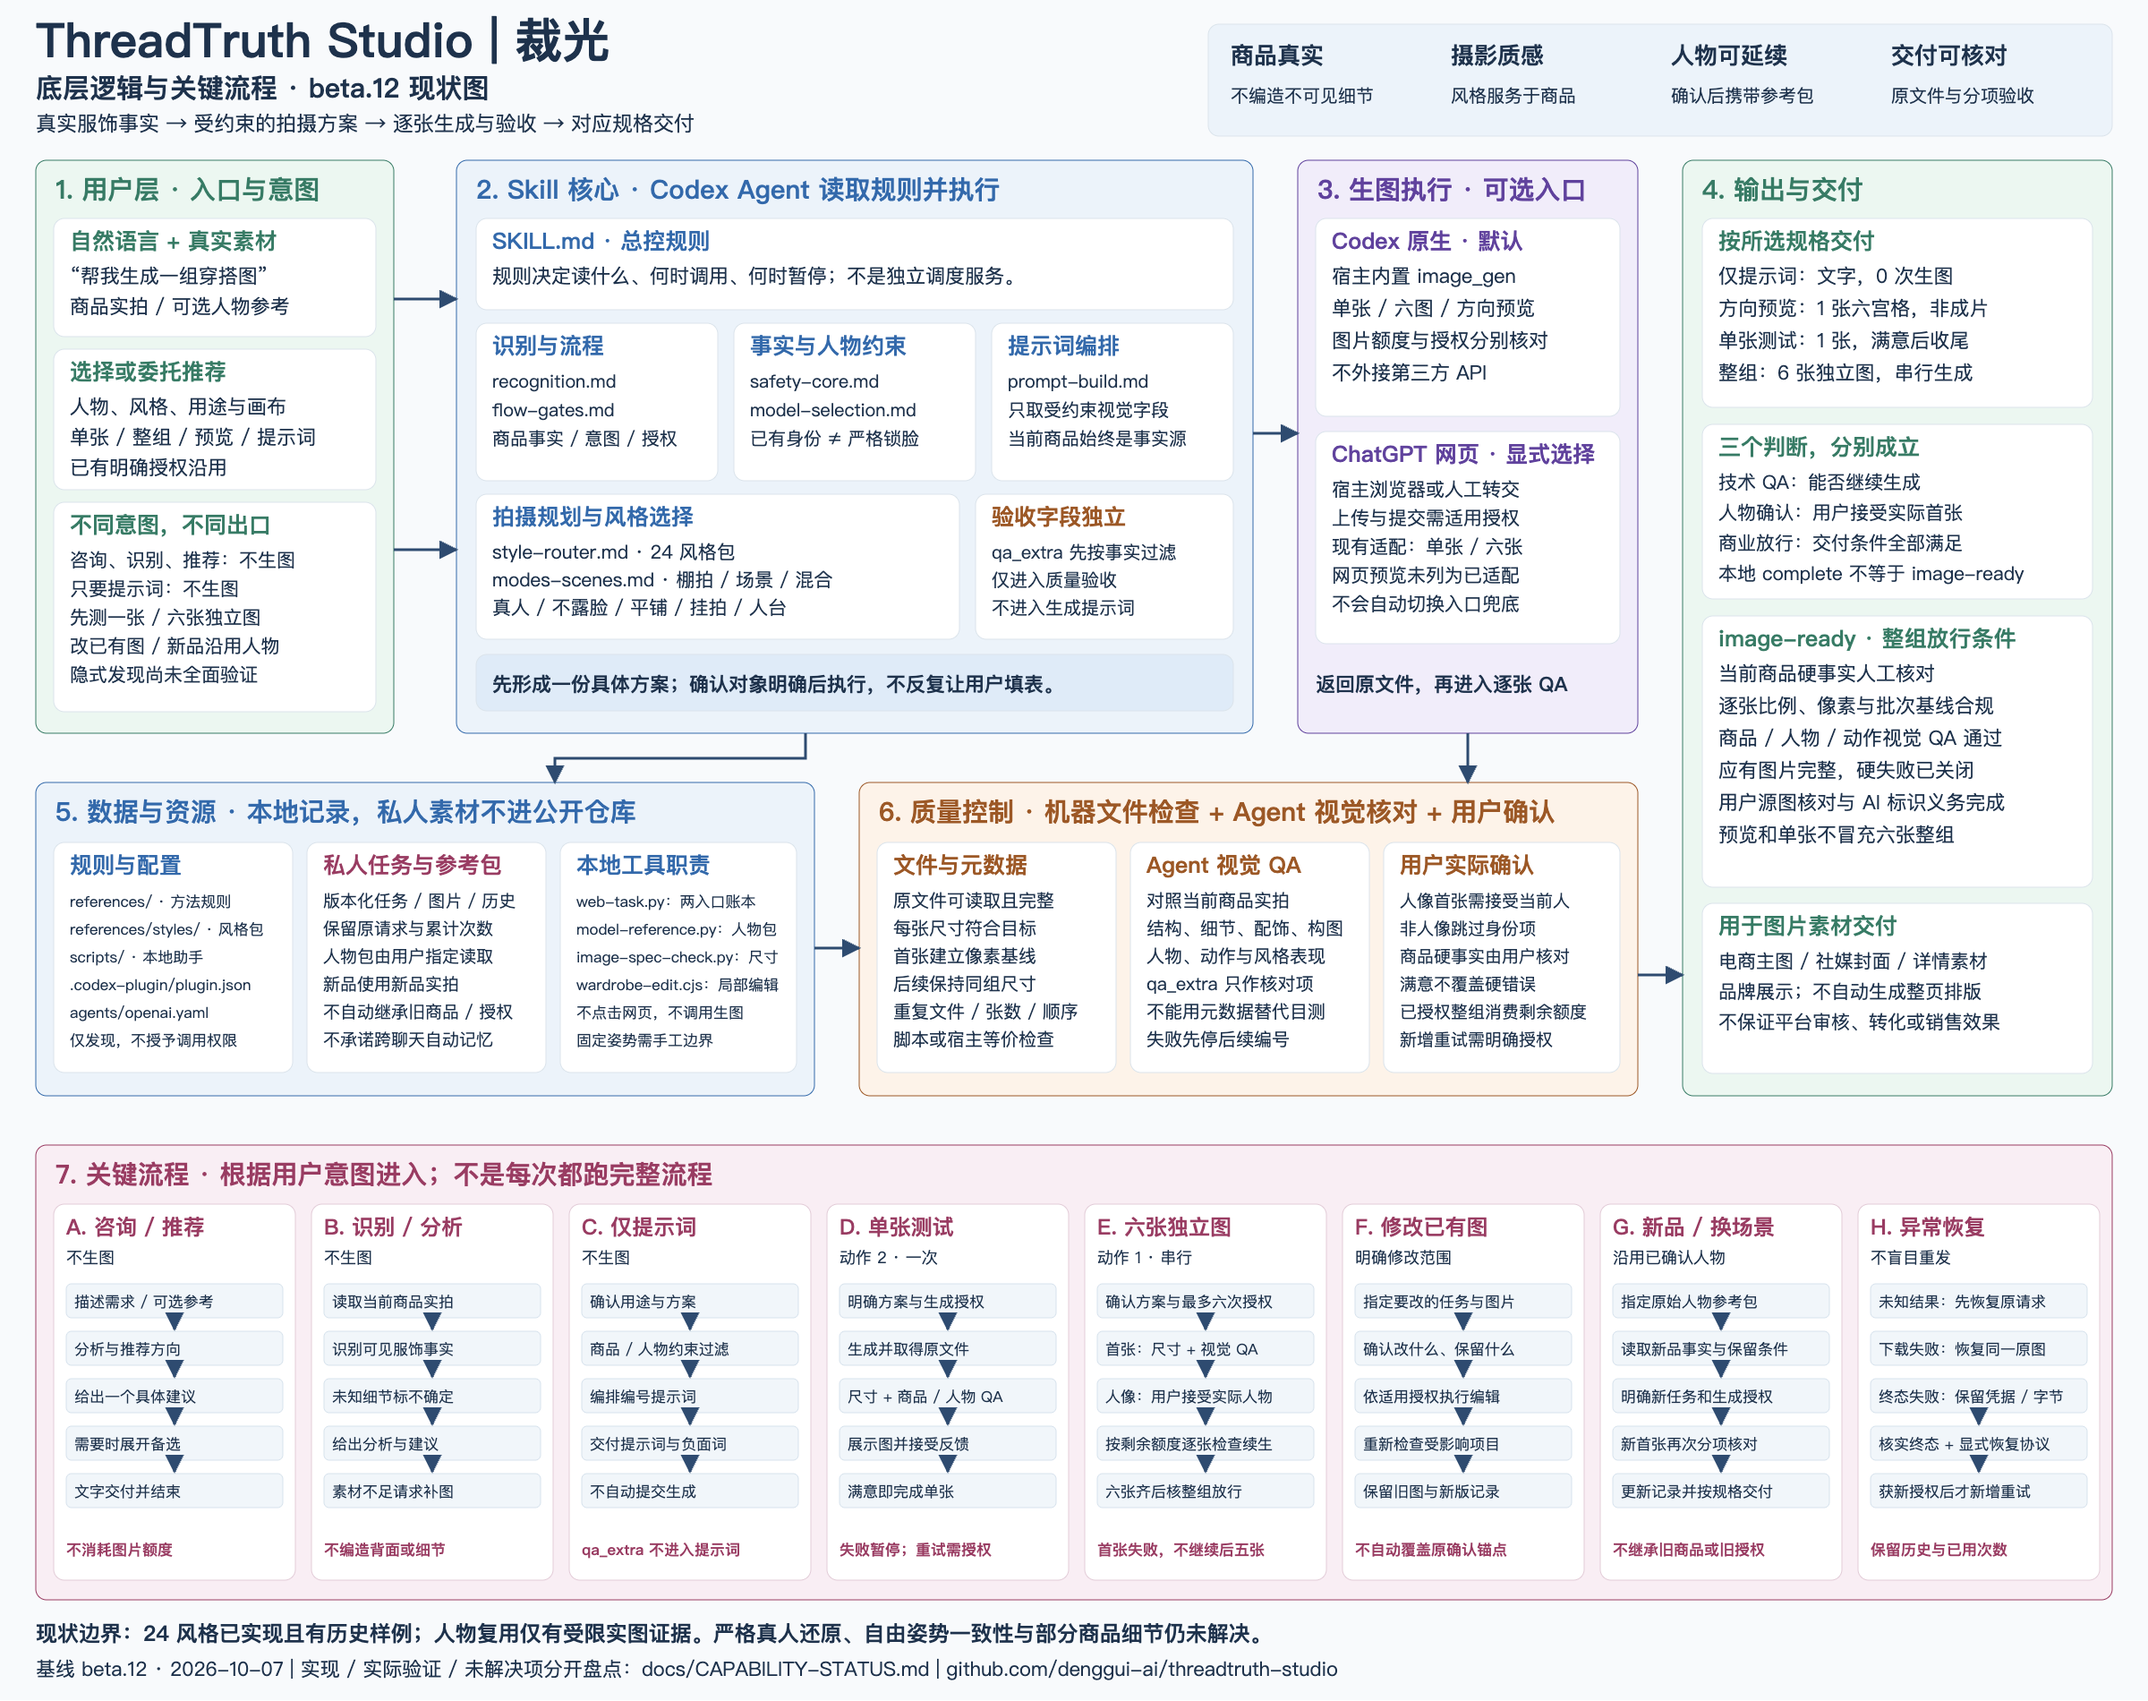
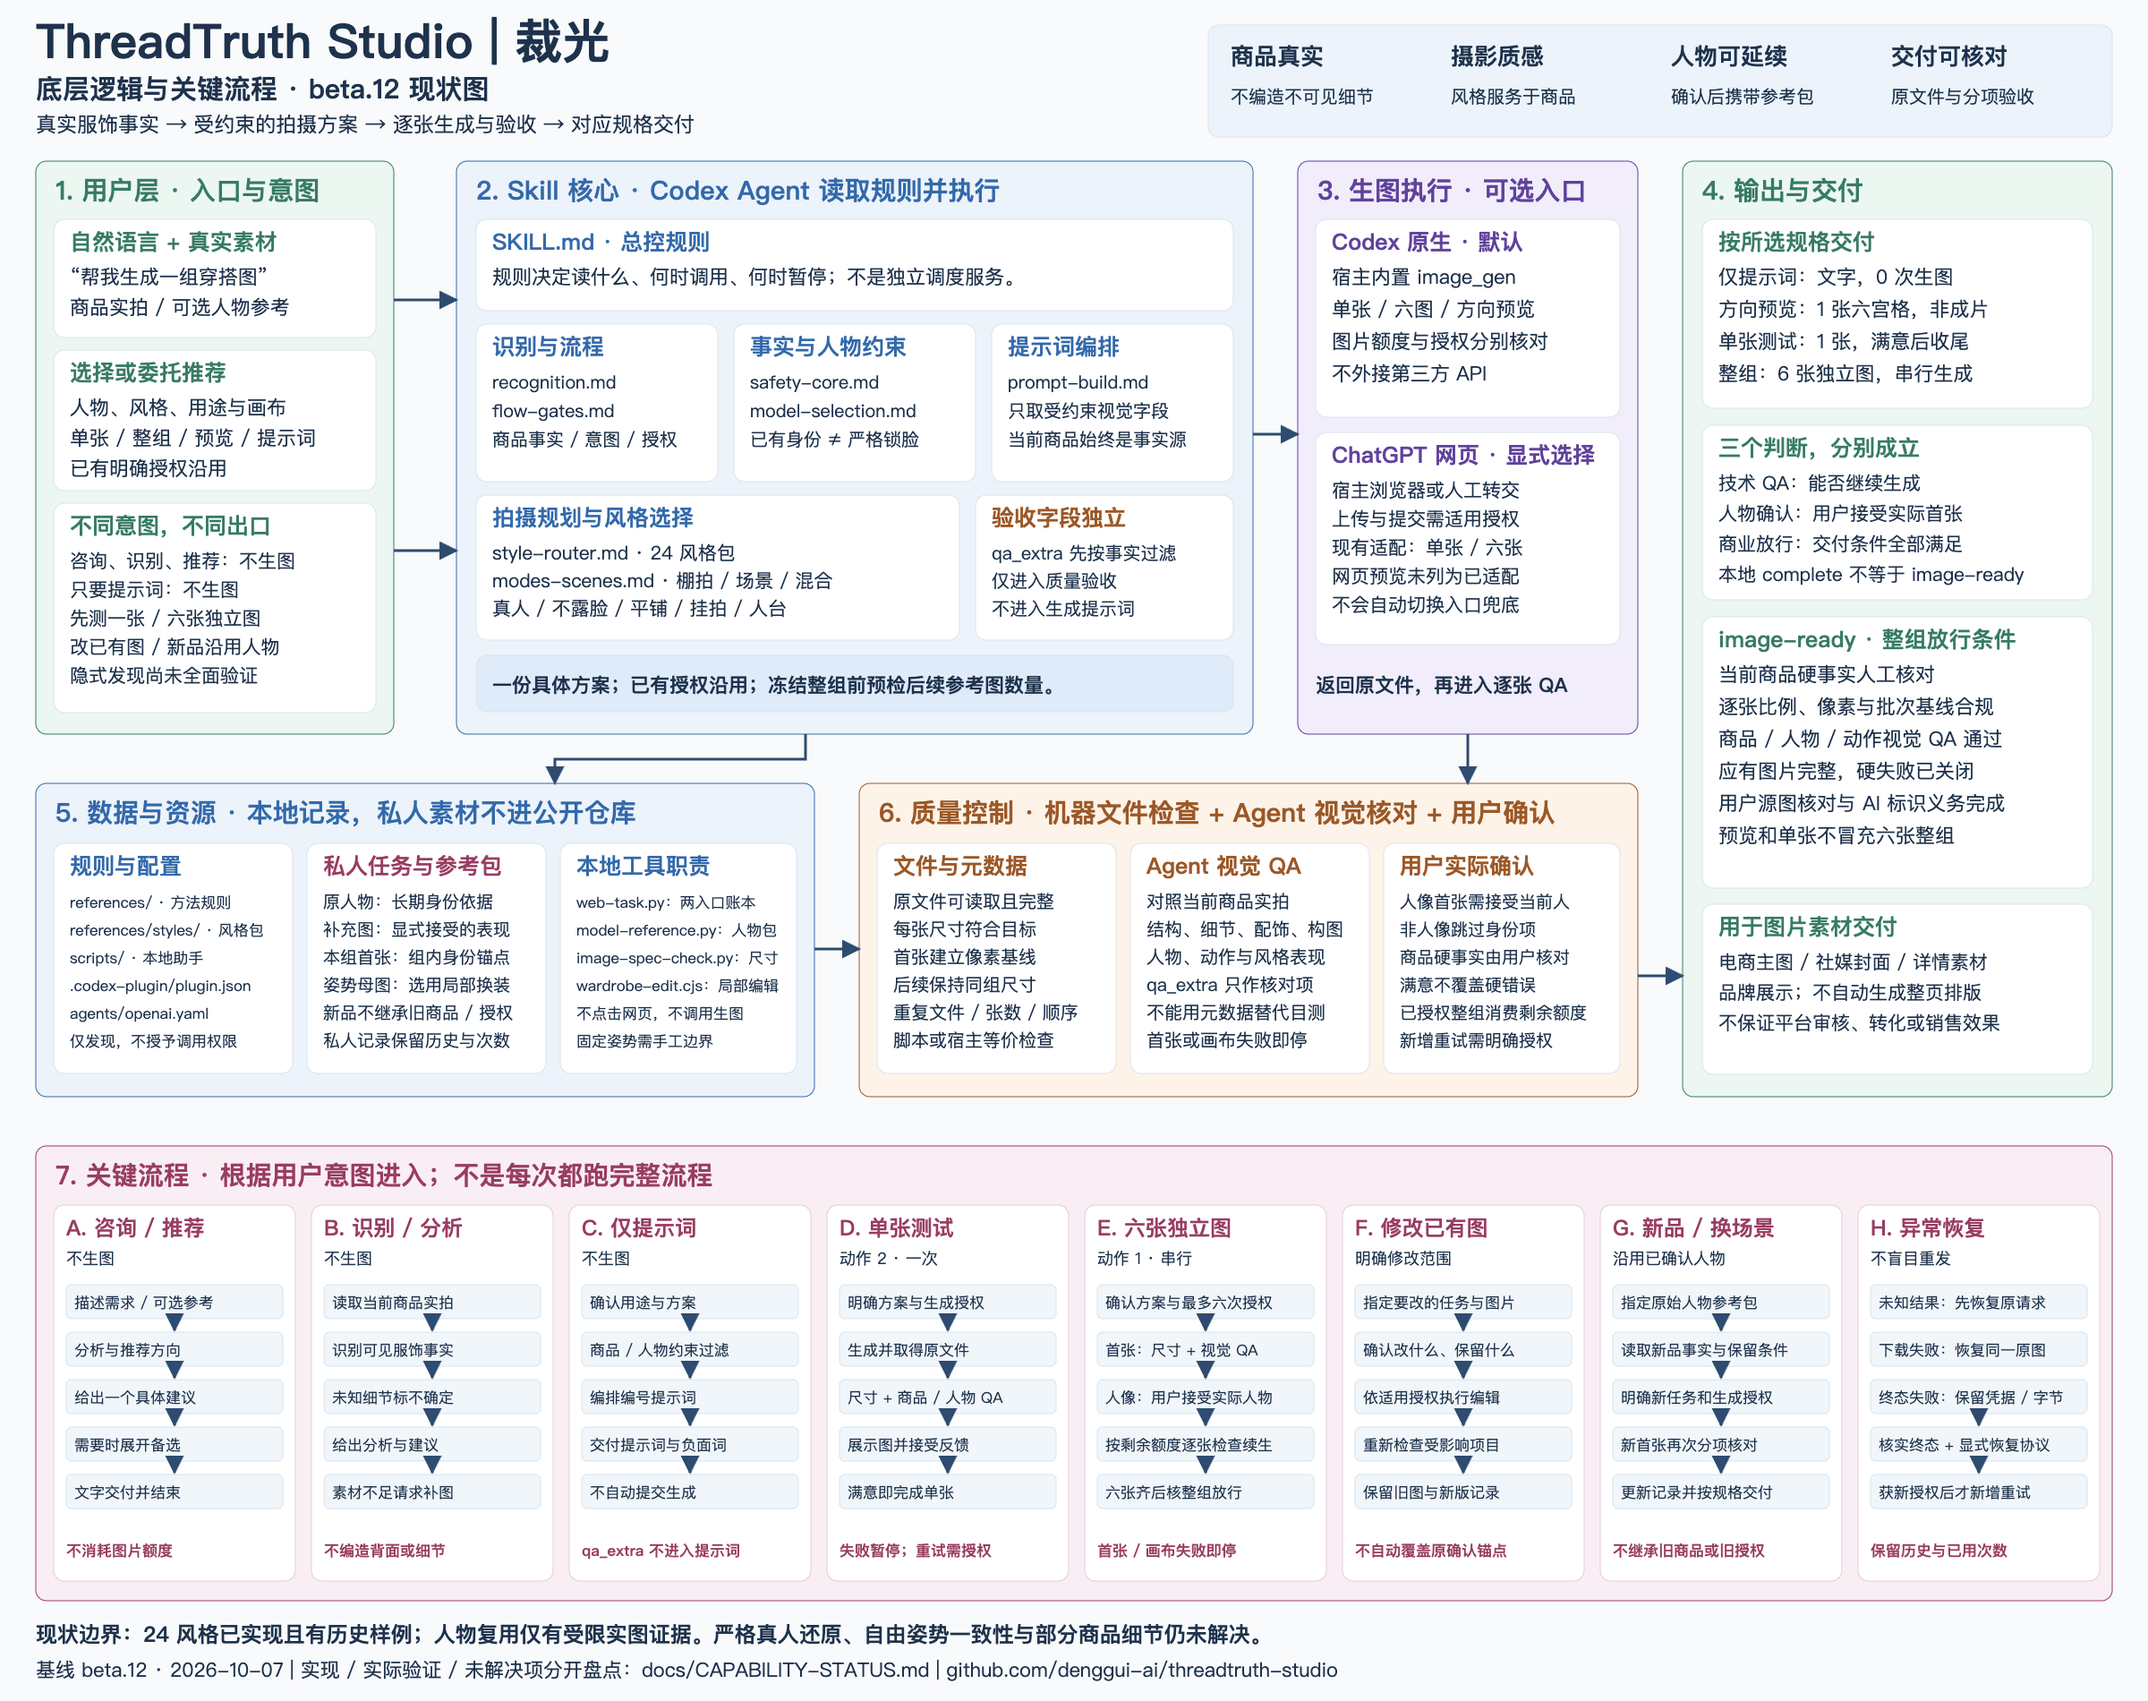
docs: align topology with current identity and failure branches

diff --git a/docs/ARCHITECTURE.md b/docs/ARCHITECTURE.md
@@ -21,7 +21,7 @@
 | 人物选定与条件调整 | 已有真人/AI参考，或无固定人物 → 沿用身份/推荐新人物 | 成人主线有固定、可调、未知与来源；不保证严格真人还原；童装沿用原安全路径 |
 | 拍摄与呈现 | 风格、用途及要求 → 棚拍/场景/混合，真人/不露脸/平铺/挂拍/人台 | 自动推荐在三种模式中选；非人像跳过人物身份流程，各形式实图证据不同 |
 | 用途与画布 | 电商主图、社媒封面、详情页、品牌展示 → 构图与比例/像素要求 | 明确像素/比例优先；逐张核元数据，不自动生成整页详情、带字海报或保证平台通过 |
-| 四种交付 | 仅提示词、方向预览、单张测试或六张独立图 | 提示词0次；预览1次且非成片；单张1次；整组最多6次串行，失败暂停 |
+| 四种交付 | 仅提示词、方向预览、单张测试或六张独立图 | 提示词0次；预览1次且非成片；单张1次；整组最多6次串行，首张/画布失败暂停 |
 | 两种制作入口 | 已确认方案 → Codex原生，或明确选择ChatGPT网页 | 默认Codex；网页适配单张/六张，需宿主浏览器或手动转交，不自动切换、不用API兜底 |
 | 验收与修正 | 原图、结果及反馈 → 人物/商品/用途/画布分项结论 | 技术QA与用户选人分开；只对有依据且获授权的指定图片修正，硬错误不能由满意覆盖 |
 | 人物参考包复用 | 已确认人物与新品 → 沿用原始人物依据和已确认条件 | 新聊天需提供包/明确位置；不继承旧商品，新品首张仍需核对；已有受限实图样本 |
@@ -38,6 +38,30 @@
 5. **资源层**保存规则与私人版本化任务；人物包由用户指定，新品不继承旧商品和旧授权。
 6. **质量层**结合文件元数据、Agent视觉核对与用户实际确认，机器通过不能替代商品人工核对。
 7. **流程层**按意图进入A–H；失败时先恢复原请求，只有适用授权才能新增调用。非人像跳过人物身份项。
+
+### 当前版本的人物复用逻辑
+
+这些关系来自当前[人物规则](../skills/threadtruth-studio/references/model-selection.md)及[固定姿势分支](../skills/threadtruth-studio/references/fixed-pose-wardrobe.md)，不是从旧聊天或示例图推导的。
+
+| 数据角色 | 当前职责与优先级 |
+|---|---|
+| 当前商品实拍 | 当前服饰事实源；人物参考里的旧衣服、配饰和背景不自动进入新品条件 |
+| 原始人物参考 | 长期身份依据，始终保留；不能被最新生成图静默替换；仅脸照不证明原身体 |
+| 已确认补充图 | 用户显式选用的生成表现，按face/full范围补充；不能覆盖原始身份或成为新授权 |
+| 本组已确认首张 | 只作本组identity-only锚点；后五张仍结合当前商品、原始身份及已选补充图 |
+| 固定姿势母图 | 仅在明确选择局部换装时使用的编辑目标；不是普通新品任务自动附件，也不是长期身份源 |
+| 用户本次调整 | 明确新妆发/表情等要求覆盖同轴旧目标和风格默认；未要求改妆发时沿用参考；固定母图保护区冲突须先处理 |
+
+原生每次最多5张附件。**冻结整组前就预检后五张**：为原始身份、已选补充图和本组首张预留位置，按可见事实选足商品视图；不静默丢掉身份或关键商品图。新聊天由用户指定人物包，不承诺自动记忆；新品任务仍重新核对首张，不继承旧商品或旧授权。
+
+### 当前版本的失败分流
+
+- **首张技术或人物确认未通过**：不推进后五张。
+- **任意一张的比例或批次像素失配**：立即停止后续未调用编号。
+- **后续look-2至6普通服饰/构图QA失败**：保留`qa-retry`；可继续当前已授权闭集中的其它编号，但不自动重试失败图，也不能把整组标为商业放行。
+- **结果未知、下载失败与已知终态失败**：分别按原请求恢复、同一原图下载恢复、保留证据后核实终态处理；旧schema2须显式采用恢复协议，新增重试还须适用的新授权。
+
+依据：[flow-gates §5b](../skills/threadtruth-studio/references/flow-gates.md)、[逐张画布门禁](../skills/threadtruth-studio/references/prompt-build.md)及下方状态表。该区分不改变调用上限。
 
 ### 本地工具具体负责什么
 
@@ -57,7 +81,7 @@
 |---|---|---|
 | 只咨询/识别/看风格/要提示词 | 文字出口，不调用生图；已有完整授权不重复询问 | [flow-gates](../skills/threadtruth-studio/references/flow-gates.md)，源侧eval 143–145 |
 | 首张返回 | 实际尺寸先符合目标才能建立像素基线；技术QA通过、成人用户接受当前人物后才续整组 | [prompt-build §4.0b](../skills/threadtruth-studio/references/prompt-build.md)，[人物规则](../skills/threadtruth-studio/references/model-selection.md) |
-| 后续图片返回 | 每张同时符合目标比例与首张像素基线，再核QA；失败即停后续编号 | 同上；不把尺寸检查拖到最后 |
+| 后续图片返回 | 每张先符合目标比例与首张像素基线，再核QA；画布失配停止后续。后续普通视觉失败保留qa-retry，可续当前已授权其它编号 | 同上；不把尺寸检查拖到最后 |
 | 已提交但结果未知 | 恢复同一请求，核实是否仍在生成/已返回；不可重发或新建账本清零 | [网页协议](../skills/threadtruth-studio/references/chatgpt-web.md)，test_unknown_cannot_reconcile_or_retry_before_actual_request_recovery |
 | 生成完成但下载失败 | 保留原请求，恢复同一原文件，不增加生图调用 | 网页协议；截图不是原图 |
 | 明确终态失败/错误尺寸/损坏返回 | recovery v1保留凭据或原字节；reconcile-failure核实原请求结束后，才可登记新增一次明确重试授权 | [任务回归](../tests/test_model_task.py)：test_known_failure_requires_reason_and_retained_receipt、test_cli_invalid_return_exits_nonzero_after_retaining_failure |

diff --git a/.ai/handoff.md b/.ai/handoff.md
@@ -2,7 +2,7 @@
 
 更新：2026-10-07。Owner：当前用户会话中的 Codex。当前阶段：M1与交互简化完成，本机版已启用；PR #31 已合并到main，beta.12已完成公开预发布和重新下载校验。
 
-- 正确开发位置：本 worktree `threadtruth-studio/.worktrees/model-reference-reuse`，当前文档分支 `docs/user-architecture-overview`。
+- 正确开发位置：本 worktree `threadtruth-studio/.worktrees/model-reference-reuse`，当前文档分支 `docs/current-logic-alignment`。
 - 当前已安装源码：`7dd00bf`（简化对话流程）；原flow2安装验收记录`2038643`作为历史保留。运行时目标：`skills/threadtruth-studio/`；开发证据根：本仓库。
 - 当前唯一开发路线：[model-selection-roadmap.md](../docs/development/model-selection-roadmap.md)。它更新后续排期，不改写历史实验。
 - 核心目标：已有模特可沿用；没有模特时可推荐和选择；因子可理解和调整；首张确认后可携带参考包继续展示新品。
@@ -11,6 +11,8 @@
 - 本机安装版：`1.0.0-beta.11+codex.20261004T160256-95386bfc`，installed-and-enabled；source/cache278文件一致、45运行文件匹配源码，完整旧源及登记备份通过核验。新聊天可加载；本次未重跑对话验收，历史flow2的12/13不转作新版结论。
 
 ## 当前工作与唯一下一步
+
+**当前源码对照：** PR #34总图与23项能力盘点已合并为`a8264aa`。用户要求继续核对多轮迭代后的现状：纠正图中泛化的失败停止表达，补充原始人物、已选补充图、本组首张、固定母图的职责，以及整组冻结前5附件预检；依据当前规则，不修改运行时。
 
 **用户纠正后的文档工作：** 面向用户制作与参考图相近的七层架构总图（SVG/PNG及可维护绘图源），另外逐项盘点实现、实际验证和未解决项，完成后上传GitHub。此前PR #33的Mermaid职责图已合并，用户明确其未满足展示要求，本批替换主图表达；不开发新运行能力。
 

diff --git a/docs/CAPABILITY-STATUS.md b/docs/CAPABILITY-STATUS.md
@@ -27,7 +27,7 @@
 | 仅提示词 | 已实现，0 次生图 | 无图流程与实际提示词绑定回归 | 可使用；文字正确不证明生成效果 |
 | 方向预览 | 原生路线已实现，一张六宫格 | 有历史预览与排版核验 | 非成片；网页动作0未列为已适配；不得裁格冒充独立成片 |
 | 单张测试 | 两入口流程已实现 | 有实际单张及M1红裙的用户有限接受 | 限定可用；接受单张即收尾，不等于整组完成 |
-| 六张独立图 | 串行与首张门禁已实现 | 有历史公开六图组及网页六张流程 | 部分验证；失败暂停，当前版本全风格/全姿势不普遍通过 |
+| 六张独立图 | 串行与首张门禁已实现 | 有历史公开六图组及网页六张流程 | 部分验证；首张/画布失败暂停；后续普通视觉失败可保留失败并续已授权其它编号，不自动重试；全风格/全姿势不普遍通过 |
 | Codex 原生生图 | 默认入口已实现 | 维护者环境有实际原生生成记录 | 限定验证；依赖宿主图片能力及账号额度 |
 | ChatGPT 网页生图 | 显式选择，单张/六图已适配 | 维护者macOS完成网页六张流程 | 依赖宿主浏览器或人工转交；新机器与手动易用性未全面验证 |
 | 无模特时推荐与调整条件 | 规则及因子工具已实现 | 旧版三旅程行为证据，当前确定性回归 | 有限定行为证据；推荐审美质量不能由测试数量证明 |
